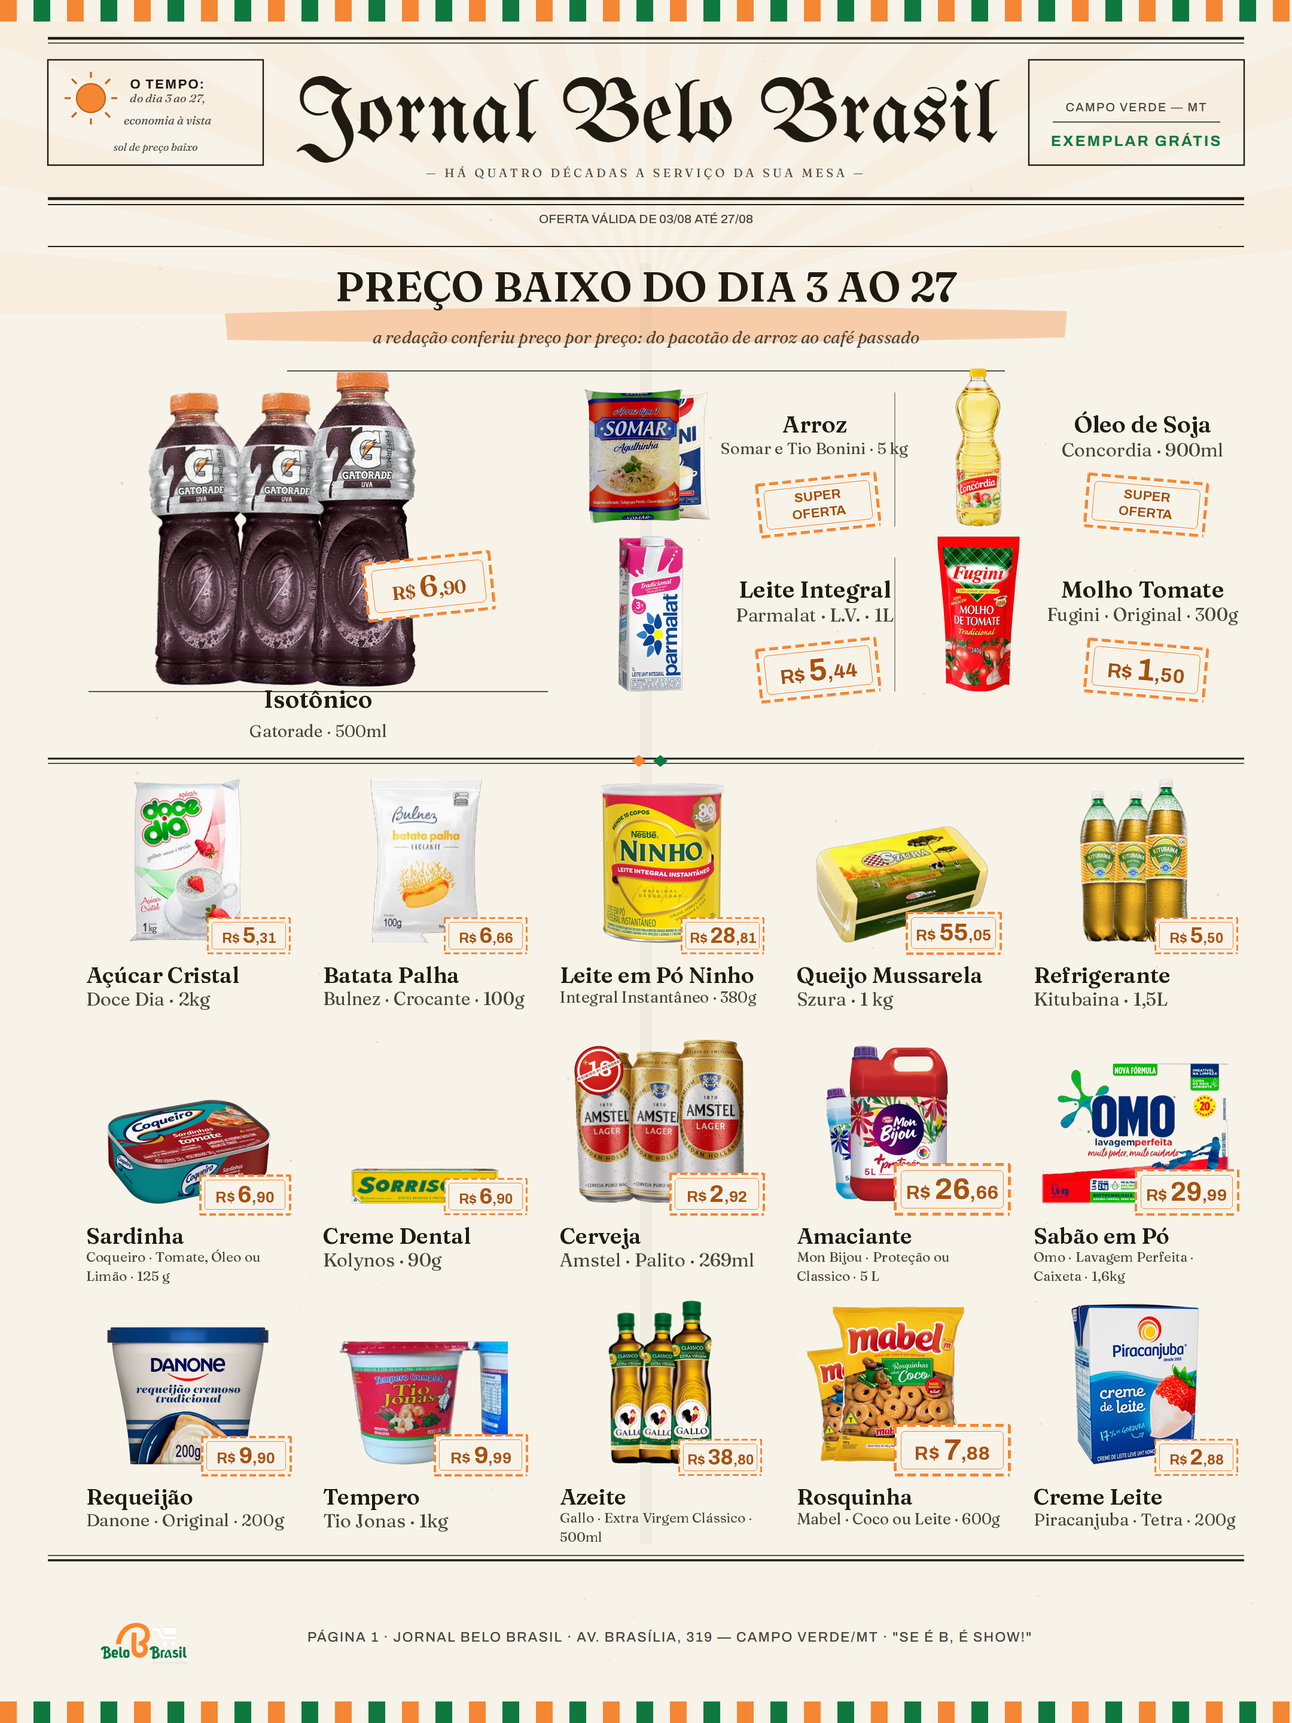
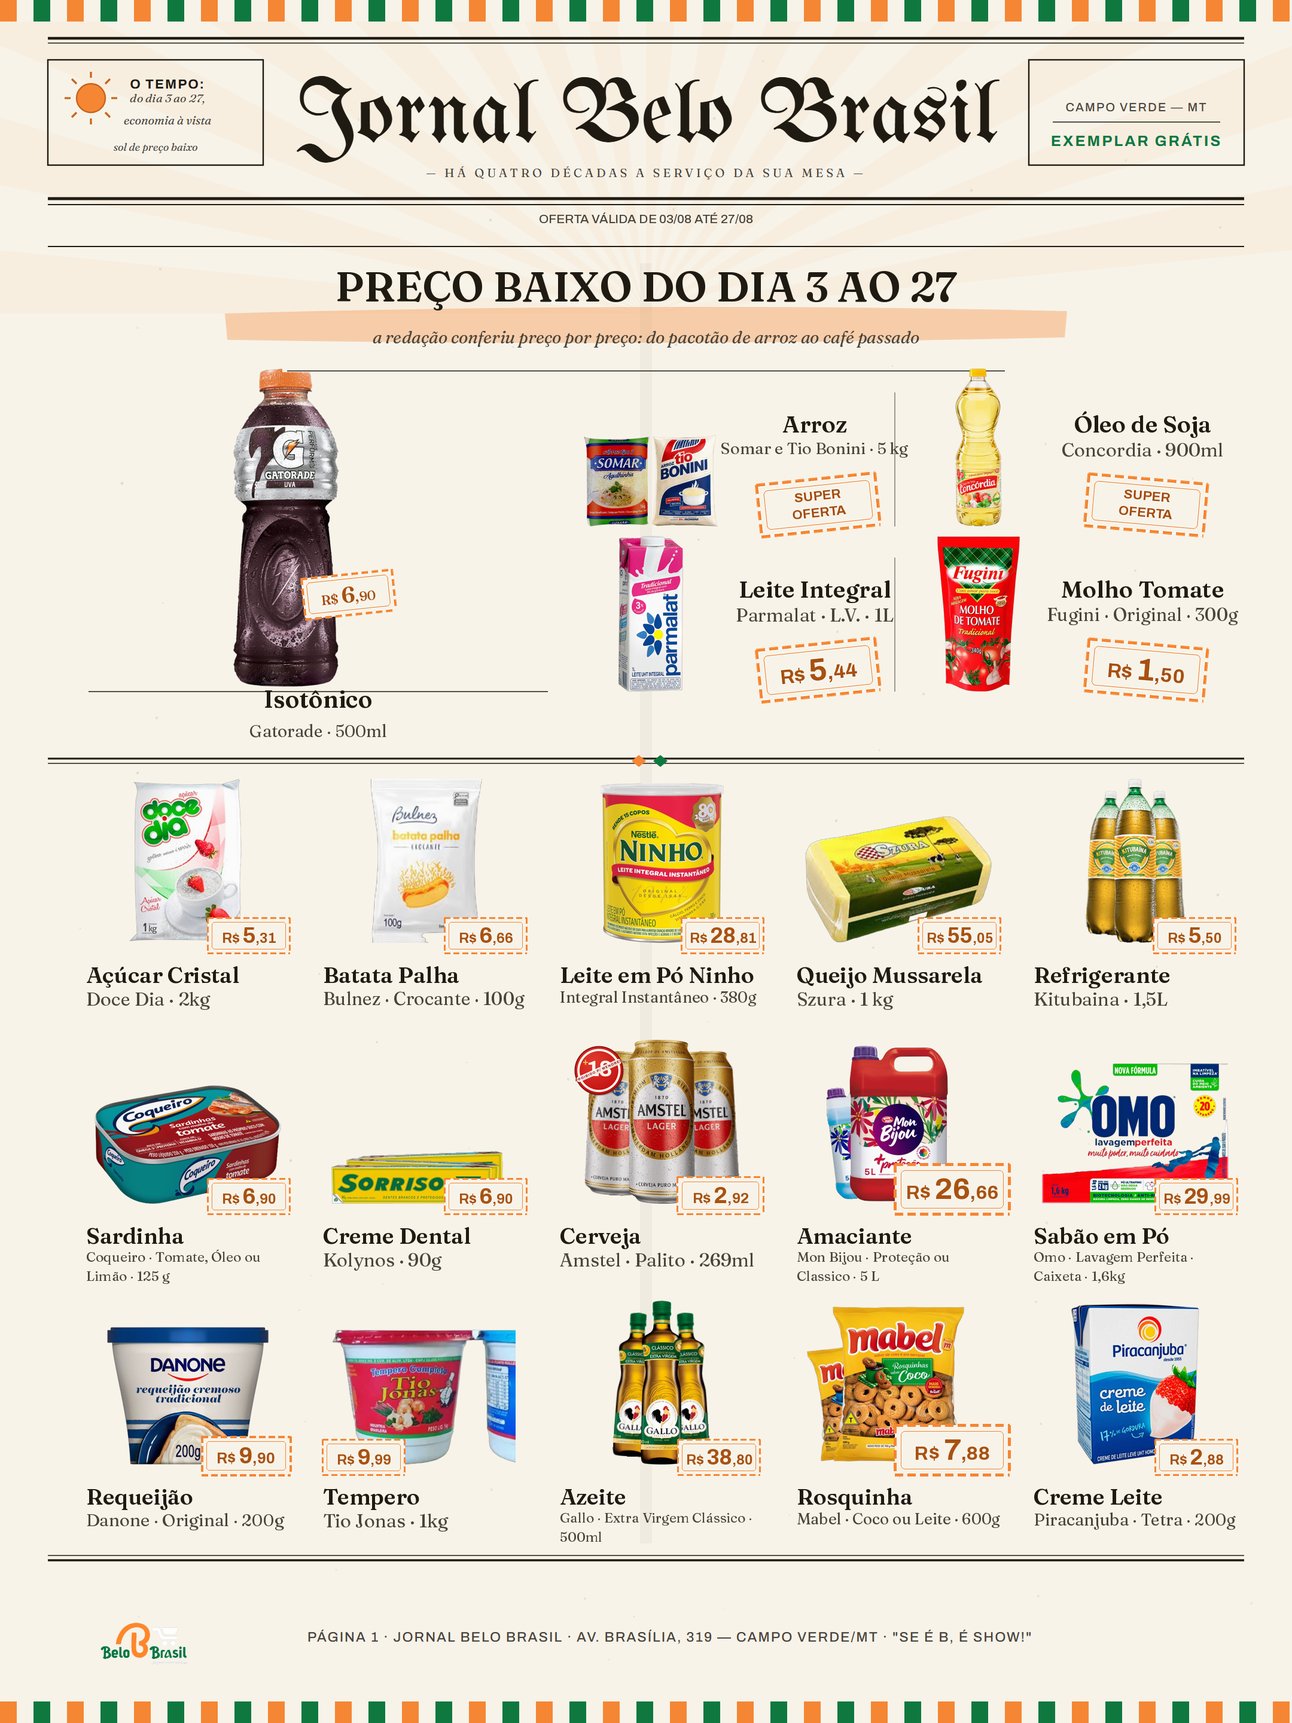
F13 ORDEM VICESIMUS-TERTIUS (04/08): A COMPOSICAO DO TRIO E O ARROZ QUE SE ESCONDE - os tres apontamentos do dono ('os horizontais cobertos; o leque melhor com um maior na frente; o arroz cobrindo um ao outro') sao O MESMO ERRO EM TRES ROUPAS (L21: TODA REGRA NOVA PERGUNTA ONDE EU NAO VALHO - regra 

diff --git a/app/rendering/compositor.py b/app/rendering/compositor.py
@@ -100,6 +100,10 @@ class DadosProduto:
     # dissolvidos na prosa do descritor) — o pré-voo compara com as
     # fotos e acusa "anuncia 3 sabores, só 1 tem foto" (a Sardinha)
     sabores: tuple[str, ...] = ()
+    # VICESIMUS-TERTIUS/L20: item COMPOSTO (produtos DIFERENTES — o
+    # 'Somar e Tio Bonini') — o arranjo NUNCA sobrepõe uma marca à
+    # outra (cópia pode sumir atrás; original não)
+    composto: bool = False
 
 
 def percentual_desconto(preco_de: "Decimal | None",
@@ -356,56 +360,81 @@ def _um_corpo_so(img: Image.Image) -> bool:
 
 def _leque_solo(img: Image.Image, nw: int, nh: int, rw: int,
                 rh: int) -> Image.Image | None:
-    """L19 (a ideia do DONO): quando a unidade não preenche, o
-    CONJUNTO preenche — 3 cópias (ou 2 quando 3 não cabem):
+    """L19 (a ideia do DONO) na composição da VICESIMUS-TERTIUS §1-2:
 
-    - alto e fino → LADO A LADO, sobreposição ~15%, as de trás a 92%
-      (profundidade, não clone);
-    - baixo e largo → pilha em leque DIAGONAL (deslocando ~20% para
-      cima e para o lado) — preenche a zona em pé;
-    - ±2° de rotação entre as cópias (sem isso lê "copiei e colei");
-    - a cópia da FRENTE pinta por último — a etiqueta morde nela.
+    - alto e fino → HERÓI E FLANCOS: centro 100% a 0°, flancos a 88%
+      com −3°/+3°, entrando ~22% ATRÁS do centro e com a base ~4%
+      mais alta (é assim que se lê "mais atrás", não "menor");
+      SIMÉTRICO — a massa óptica cai no centro (P1). Produto MUITO
+      fino: os flancos entram só 10% (o grupo alarga, §4.3).
+    - baixo e largo → EMPILHAMENTO: a de trás a 90% deslocada ~18%
+      para cima e ~8% para o lado, a do meio a 95%, a da FRENTE a
+      100% na base — preenche a zona em pé e leva a etiqueta.
 
-    Devolve a camada RGBA do conjunto, ou None (não coube nem 2)."""
+    A cópia da FRENTE/central pinta por último. Devolve a camada RGBA
+    (o par de flancos vira 1 quando o trio não cabe), ou None."""
     un = img.resize((max(1, nw), max(1, nh)))
     prop = nw / max(1, nh)
-    for n in (3, 2):
-        tras = un.resize((max(1, round(nw * 0.92)),
-                          max(1, round(nh * 0.92))))
-        pecas = []
-        if prop < 1.0:                   # alto e fino: lado a lado
-            passo = round(nw * 0.85 * 0.92)
-            larg_total = passo * (n - 1) + nw
-            alt_total = nh
+    if prop < 1.0:                       # HERÓI E FLANCOS
+        fl = un.resize((max(1, round(nw * 0.88)),
+                        max(1, round(nh * 0.88))))
+        muito_fino = (nw * 3) < rw * 0.45
+        entra = 0.10 if muito_fino else 0.22
+        avanco = round(fl.width * (1 - entra))
+        sobe = round(nh * 0.04)
+        fl_e = fl.rotate(-3, expand=True, resample=2)
+        fl_d = fl.rotate(3, expand=True, resample=2)
+        larg_total = avanco * 2 + nw
+        if larg_total > rw:              # só um flanco (à direita)
+            larg_total = avanco + nw
             if larg_total > rw:
-                continue
-            for k in range(n - 1):
-                pecas.append((tras.rotate(2 if k % 2 == 0 else -2,
-                                          expand=True, resample=2),
-                              k * passo, "base"))
-            pecas.append((un, (n - 1) * passo, "base"))
-        else:                            # baixo e largo: pilha diagonal
-            dx = round(nw * 0.10)
-            dy = round(nh * 0.55)
-            larg_total = nw + dx * (n - 1)
-            alt_total = nh + dy * (n - 1)
-            if alt_total > rh or larg_total > rw:
-                continue
-            for k in range(n - 1):
-                pecas.append((tras.rotate(2 if k % 2 == 0 else -2,
-                                          expand=True, resample=2),
-                              k * dx, alt_total - nh - (n - 1 - k) * dy))
-            pecas.append((un, (n - 1) * dx, alt_total - nh))
-        camada = Image.new("RGBA", (max(p[0].width + p[1]
-                                        for p in pecas),
-                                    alt_total + 8), (0, 0, 0, 0))
-        for peca, px_, py_ in [
-                (p[0], p[1],
-                 (camada.height - p[0].height) if p[2] == "base"
-                 else p[2]) for p in pecas]:
-            camada.alpha_composite(peca, (px_, max(0, py_)))
+                return None
+            camada = Image.new("RGBA", (larg_total, nh + sobe + 6),
+                               (0, 0, 0, 0))
+            camada.alpha_composite(
+                fl_d, (avanco + nw - fl_d.width,
+                       camada.height - fl_d.height - sobe))
+            camada.alpha_composite(un, (0, camada.height - nh))
+            return camada
+        camada = Image.new("RGBA", (larg_total, nh + sobe + 6),
+                           (0, 0, 0, 0))
+        camada.alpha_composite(fl_e,
+                               (0, camada.height - fl_e.height - sobe))
+        camada.alpha_composite(
+            fl_d, (larg_total - fl_d.width,
+                   camada.height - fl_d.height - sobe))
+        camada.alpha_composite(un, (avanco, camada.height - nh))
         return camada
-    return None
+    # BAIXO E LARGO: o EMPILHAMENTO (§2 — a metade que faltava). O
+    # achatado costuma ENCHER a largura da zona — deslocar para o
+    # lado estouraria sempre; o CONJUNTO escala para caber (3 cópias
+    # a ~86% ainda têm ~2,2× a tinta da unidade).
+    dx = round(nw * 0.08)
+    dy = round(nh * 0.18)
+    larg_total = nw + dx * 2
+    alt_total = nh + dy * 2
+    fit = min(rw / max(1, larg_total), rh / max(1, alt_total), 1.0)
+    if fit < 0.60:
+        return None                      # nem escalando compensa
+    if fit < 1.0:
+        nw = max(1, round(nw * fit))
+        nh = max(1, round(nh * fit))
+        un = img.resize((nw, nh))
+        dx = round(nw * 0.08)
+        dy = round(nh * 0.18)
+        larg_total = nw + dx * 2
+        alt_total = nh + dy * 2
+    m95 = un.resize((max(1, round(nw * 0.95)),
+                     max(1, round(nh * 0.95))))
+    t90 = un.resize((max(1, round(nw * 0.90)),
+                     max(1, round(nh * 0.90))))
+    camada = Image.new("RGBA", (larg_total, alt_total), (0, 0, 0, 0))
+    camada.alpha_composite(t90.rotate(2, expand=True, resample=2),
+                           (dx * 2, 0))
+    camada.alpha_composite(m95.rotate(-2, expand=True, resample=2),
+                           (dx, dy))
+    camada.alpha_composite(un, (0, alt_total - nh))
+    return camada
 
 
 def _fracao_de_tinta(img: Image.Image) -> float:
@@ -480,11 +509,19 @@ def _desenhar_imagem(base: Image.Image, reg: Regiao, dados: DadosProduto, dpi: i
                 # mediana medida) e a foto é UM corpo só, o produto se
                 # REPETE — 3 cópias com profundidade e rotação. A
                 # ordem do §4: o leque muda a tinta ANTES da etiqueta.
+                # §4.4 da TERTIUS: a célula-HERÓI nunca multiplica —
+                # na capa o herói é UM produto grande e imponente
+                # (gate: zona mais larga que 60 mm é editorial)
+                eh_heroi = reg.rect.larg_mm > 60.0
                 if (reg.uid in getattr(base, "_p4_uids", ())
-                        and img.mode == "RGBA"):
+                        and img.mode == "RGBA" and not eh_heroi):
                     frac = _fracao_de_tinta(img)
                     tinta_un = frac * nw * nh / max(rw * rh, 1)
-                    if tinta_un < 0.38 and _um_corpo_so(img):
+                    prop_un = nw / max(1, nh)
+                    # §2: o ACHATADO dispara abaixo da mediana (50%) —
+                    # a metade da L19 que tinha ficado só escrita
+                    limiar = 0.50 if prop_un >= 1.3 else 0.38
+                    if tinta_un < limiar and _um_corpo_so(img):
                         conj = _leque_solo(img, nw, nh, rw, rh)
                         if conj is not None:
                             img = conj
@@ -527,7 +564,9 @@ def _desenhar_imagem(base: Image.Image, reg: Regiao, dados: DadosProduto, dpi: i
         camada = _imagem_enquadrada(img, rw, rh, esp, reg.ajuste)
     else:
         # N imagens: arranjo (leque / lado a lado / grade), camada que não vaza.
-        camada = compor_imagens([im for _, im in pares], rw, rh, dados.modo_arranjo)
+        camada = compor_imagens([im for _, im in pares], rw, rh,
+                                dados.modo_arranjo,
+                                sem_sobrepor=dados.composto)
 
     camada = _aplicar_mascara(camada, forma)
     base.paste(camada, (x, y), camada)
@@ -803,6 +842,25 @@ def _desenhar_quadro_dica(base, draw, reg, dpi, fontes_dir) -> None:
                   (lx + s, ly + s)], fill=(245, 134, 52))
 
 
+def _detalhe_no_rect(base: Image.Image, x: int, y: int, w: int,
+                     h: int) -> float:
+    """§4.1 da TERTIUS: quanta INFORMAÇÃO visual mora na área (o
+    desvio-padrão do recorte em tons de cinza) — a régua do espelho
+    da mordida: canto com muito detalhe = provável MARCA/rótulo."""
+    x0, y0 = max(0, x), max(0, y)
+    x1 = min(base.width, x + max(1, w))
+    y1 = min(base.height, y + max(1, h))
+    if x1 <= x0 or y1 <= y0:
+        return 0.0
+    rec = base.crop((x0, y0, x1, y1)).convert("L")
+    rec.thumbnail((32, 32))
+    px = list(rec.getdata())
+    if not px:
+        return 0.0
+    media = sum(px) / len(px)
+    return (sum((p - media) ** 2 for p in px) / len(px)) ** 0.5
+
+
 def _tinta_no_rect(base: Image.Image, x: int, y: int, w: int,
                    h: int) -> float:
     """Fração de pixels que NÃO são papel na área (dist > 40 do creme
@@ -864,19 +922,40 @@ def _canto_mais_vazio(base, reg_preco, regioes, rects_subst, dpi):
         # silhueta, com PISO de legibilidade em 72% da arte (o corpo
         # do preço cede junto no desenho); produto que mesmo assim
         # ficaria tampado já cresceu pelo LEQUE (§4: a ordem importa).
+        # TERTIUS §2: o ACHATADO tem teto PRÓPRIO (≤35% da largura e
+        # ≤40% da altura da silhueta — 25% de área num pacote baixo
+        # vira uma faixa atravessando tudo).
+        alt_sil = (oy + nh) / px_por_mm - oy / px_por_mm
         fator = max(0.72, min(1.0, 0.55 * larg_sil / rp.larg_mm))
+        if larg_sil / max(alt_sil, 0.1) >= 1.3:      # achatado
+            fator = max(0.72, min(
+                fator,
+                0.35 * larg_sil / rp.larg_mm,
+                0.40 * alt_sil / rp.alt_mm))
         le = rp.larg_mm * fator
         ae = rp.alt_mm * fator
-        # VICESIMUS-PRIMUS/P3: a etiqueta MORDE O PRODUTO, sempre no
-        # MESMO canto (inf-dir da silhueta) — nunca na sobra: o olho
-        # aprende o padrão em três células e para de procurar (o ramo
-        # "ao lado" morreu; no estreito a mordida é proporcional para
-        # não atravessar o produto).
+        # VICESIMUS-PRIMUS/P3 + TERTIUS §4.1: a etiqueta MORDE O
+        # PRODUTO — DUAS posições, não quatro: o canto inf-DIREITO por
+        # padrão; quando a MARCA mora nele (mais DETALHE de tinta que
+        # no esquerdo), espelha para o inf-ESQUERDO. O olho ainda
+        # aprende o padrão.
         mordida = min(0.4 * le, 0.5 * larg_sil)
-        x_novo = min(sil_x1 - mordida, cel_x1 - le + 2.0)
+        y_novo = rp.y_mm + (rp.alt_mm - ae)
+        alt_px = round(mm_para_px(ae, dpi))
+        y_px = round(mm_para_px(y_novo, dpi))
+        det_dir = _detalhe_no_rect(
+            base, round(mm_para_px(sil_x1 - mordida, dpi)), y_px,
+            round(mm_para_px(mordida, dpi)), alt_px)
+        det_esq = _detalhe_no_rect(
+            base, round(mm_para_px(sil_x0, dpi)), y_px,
+            round(mm_para_px(mordida, dpi)), alt_px)
+        cel_x0 = r_img.x_mm
+        if det_dir > det_esq * 1.6:      # a marca está no direito
+            x_novo = max(sil_x0 + mordida - le, cel_x0 - 2.0)
+        else:
+            x_novo = min(sil_x1 - mordida, cel_x1 - le + 2.0)
         # a BASE da etiqueta fica onde a arte mandou (o bloco de texto
         # vem logo abaixo) — encolher sobe o topo, não desce a base
-        y_novo = rp.y_mm + (rp.alt_mm - ae)
         if abs(x_novo - rp.x_mm) < 0.5 and fator > 0.99:
             return None
         return Retangulo(x_novo, y_novo, le, ae)

diff --git a/app/rendering/arranjo.py b/app/rendering/arranjo.py
@@ -110,8 +110,31 @@ def _leque(camada, imagens, w, h) -> None:
                        round(max(0, base - dom.height))), dom)
 
 
+def _lado_a_lado_estrito(camada, imagens, w, h) -> None:
+    """VICESIMUS-TERTIUS/L20: CÓPIA PODE SUMIR ATRÁS; ORIGINAL NÃO.
+    O COMPOSTO junta produtos DIFERENTES ('Somar e Tio Bonini') — cada
+    marca tem de se ler POR INTEIRO: escala IGUAL para todos, folga de
+    ~2% da zona entre silhuetas, ZERO sobreposição (se não couber lado
+    a lado, reduz-se a escala dos dois — nunca se esconde um)."""
+    n = len(imagens)
+    folga = max(2, round(w * 0.02))
+    livre = w - folga * (n - 1)
+    fits = [_contain(img, livre / n, h * 0.96) for img in imagens]
+    escala = min(1.0, livre / max(1, sum(f.width for f in fits)))
+    if escala < 1.0:
+        fits = [f.resize((max(1, round(f.width * escala)),
+                          max(1, round(f.height * escala))))
+                for f in fits]
+    span = sum(f.width for f in fits) + folga * (n - 1)
+    x = max(0, (w - span) // 2)
+    for f in fits:
+        camada.alpha_composite(f, (x, h - f.height))
+        x += f.width + folga
+
+
 def compor_imagens(
-    imagens: list[Image.Image], larg: int, alt: int, modo: ModoArranjo = ModoArranjo.LEQUE
+    imagens: list[Image.Image], larg: int, alt: int, modo: ModoArranjo = ModoArranjo.LEQUE,
+    sem_sobrepor: bool = False,
 ) -> Image.Image:
     """Devolve uma camada RGBA (larg×alt) com as imagens compostas no modo dado.
 
@@ -148,6 +171,9 @@ def compor_imagens(
             imgs = [imgs[k] for k in vistos]
     if len(imgs) == 1:
         _colar_centro(camada, imgs[0], 0, 0, larg, alt)
+    elif sem_sobrepor:
+        # L20: o COMPOSTO nunca esconde uma marca atrás da outra
+        _lado_a_lado_estrito(camada, imgs, larg, alt)
     elif modo == ModoArranjo.LADO_A_LADO:
         _lado_a_lado(camada, imgs, larg, alt)
     elif modo == ModoArranjo.GRADE:

diff --git a/app/tests/test_rodada_125_v3.py b/app/tests/test_rodada_125_v3.py
@@ -1071,3 +1071,31 @@ def test_vsecundus_o_leque_do_dono(tmp_path):
     im2.save(trio)
     assert _um_corpo_so(Image.open(garrafa)) is True
     assert _um_corpo_so(Image.open(trio)) is False
+
+
+def test_vtertius_composto_nunca_esconde_marca():
+    """L20 da TERTIUS: CÓPIA PODE SUMIR ATRÁS; ORIGINAL NÃO — no
+    COMPOSTO ('Somar e Tio Bonini') cada silhueta aparece POR INTEIRO
+    (lado a lado estrito, folga, zero sobreposição); no modo normal
+    (sabores) a vitrine sobreposta da v3 continua."""
+    from PIL import Image
+
+    from app.rendering.arranjo import ModoArranjo, compor_imagens
+
+    a = Image.new("RGBA", (300, 500), (0, 0, 0, 0))
+    a.paste((200, 40, 40, 255), (10, 10, 290, 490))
+    b = Image.new("RGBA", (300, 500), (0, 0, 0, 0))
+    b.paste((40, 40, 200, 255), (10, 10, 290, 490))
+    cam = compor_imagens([a, b], 400, 300,
+                         ModoArranjo.LADO_A_LADO, sem_sobrepor=True)
+    px = list(cam.convert("RGB").getdata())
+    vermelho = sum(1 for r, g, bl in px if r > 150 and bl < 100)
+    azul = sum(1 for r, g, bl in px if bl > 150 and r < 100)
+    # as DUAS marcas visíveis em área comparável (nenhuma escondida)
+    assert vermelho > 8000 and azul > 8000, (vermelho, azul)
+    assert 0.7 < vermelho / azul < 1.4, (
+        "uma marca sumiu atrás da outra")
+    # e o modo v3 (sabores, vitrine sobreposta) segue SEPARADO do
+    # estrito — as composições diferem (a v3 tem os próprios testes)
+    cam2 = compor_imagens([a, b], 400, 300, ModoArranjo.LADO_A_LADO)
+    assert cam2.tobytes() != cam.tobytes()

diff --git a/app/rendering/foto_fit.py b/app/rendering/foto_fit.py
@@ -283,14 +283,17 @@ def plano_da_celula(regioes: list[Regiao], img_w: float,
     texto_abaixo = any(
         r.rect.y_mm >= rf.y_mm + rf.alt_mm - 1.0 for r in textos)
     if preco_morde and texto_abaixo:
-        cands = []
-    else:
-        planos = ((_plano_lateral(foto, textos, bbox, prop),)
-                  if eh_lateral else
-                  (_plano_lateral(foto, textos, bbox, prop),
-                   _plano_vertical(foto, textos, bbox, prop),
-                   _plano_misto(foto, textos, bbox, prop)))
-        cands = [c for c in planos if c]
+        # TERTIUS §2: nem o ABRAÇO — ele encolhia a zona à foto
+        # achatada e o LEQUE (que multiplica o produto na zona
+        # INTEIRA) nunca via a foto como pequena; na coluna com
+        # mordida quem preenche é o leque (L19)
+        return None
+    planos = ((_plano_lateral(foto, textos, bbox, prop),)
+              if eh_lateral else
+              (_plano_lateral(foto, textos, bbox, prop),
+               _plano_vertical(foto, textos, bbox, prop),
+               _plano_misto(foto, textos, bbox, prop)))
+    cands = [c for c in planos if c]
     if cands:
         melhor = max(cands, key=lambda c: c.area)
         if melhor.area >= GANHO_MINIMO * area_atual:

diff --git a/app/qt/telas/servico.py b/app/qt/telas/servico.py
@@ -793,6 +793,9 @@ def dados_para_desenho(it: "ItemMesa", abreviacoes: dict | None = None,
         imagem_path=it.imagem,
         imagens=[ImagemSlot(c) for c in (it.imagens or [])],
         modo_arranjo=arranjo,
+        # VICESIMUS-TERTIUS/L20: o COMPOSTO nunca esconde uma marca
+        # atras da outra (o Somar cobria o Tio Bonini na capa)
+        composto=bool(getattr(it, "origem_composto", None)),
         mais18=it.mais18,
         marca_propria=it.marca_propria,                     # F13/COND-5
         unidade=it.unidade,

diff --git a/docs/RODADA_125_O_JORNAL_DO_DONO.md b/docs/RODADA_125_O_JORNAL_DO_DONO.md
@@ -1606,3 +1606,38 @@ ficaria tampado já cresceu.
 `test_vsecundus_o_leque_do_dono`: o trio da garrafa fina fica >2× a
 unidade, as cópias NÃO são idênticas (§5.3, por pixel) e o
 multi-corpo nunca repete (§5.4).
+
+## A ORDEM VICESIMUS-TERTIUS (04/08) — a resposta do builder
+
+Os três apontamentos do dono eram o mesmo erro em três roupas (L21:
+toda regra nova pergunta "onde eu não valho?"):
+
+- **§3 (o Arroz, o mais grave — L20: CÓPIA PODE SUMIR ATRÁS;
+  ORIGINAL NÃO):** o composto usava a vitrine sobreposta da v3 (feita
+  para SABORES) e o Somar cobria o Tio Bonini. O item composto agora
+  viaja com `composto=True` e o arranjo usa o `_lado_a_lado_estrito`:
+  escala IGUAL, folga ~2% da zona, ZERO sobreposição. Guardião
+  `test_vtertius_composto_nunca_esconde_marca` (as duas marcas em
+  área comparável, por pixel).
+- **§1 (o trio vira HERÓI E FLANCOS):** centro 100% a 0°, flancos 88%
+  a ±3° entrando ~22% atrás com a base 4% mais alta — SIMÉTRICO, a
+  massa óptica no centro (o diagonal descentrado morreu); o muito
+  fino alarga (flancos entram só 10%, §4.3).
+- **§2 (o EMPILHAMENTO dos achatados — a metade da L19 que faltava):**
+  trás 90% (+18% acima), meio 95%, frente 100% na base com a
+  etiqueta; o CONJUNTO escala para caber (o achatado enche a largura
+  da zona — deslocar estouraria sempre). O gatilho do achatado é <50%
+  (a mediana). E o teto próprio da etiqueta no achatado: ≤35% da
+  largura e ≤40% da altura da silhueta.
+- **§4.1 (o espelho da mordida):** DUAS posições — inf-direito por
+  padrão; quando a MARCA mora nele (mais DETALHE de tinta que no
+  esquerdo, `_detalhe_no_rect` por desvio-padrão), espelha para o
+  inf-esquerdo. O olho ainda aprende.
+- **§4.4 (o herói não faz leque):** zona mais larga que 60 mm é
+  editorial — o Gatorade da capa voltou a ser UM produto imponente.
+
+**Achado da rodada (a caça do empilhamento):** o ABRAÇO do Q1
+encolhia a zona à foto achatada ANTES do leque — o leque via a foto
+"cheia" na zona reduzida e nunca disparava; na coluna com mordida o
+plano Q1 inteiro cede ao leque (quem preenche é a L19). O contrato
+do Q1 no banner da Quarta segue intacto (testado).
